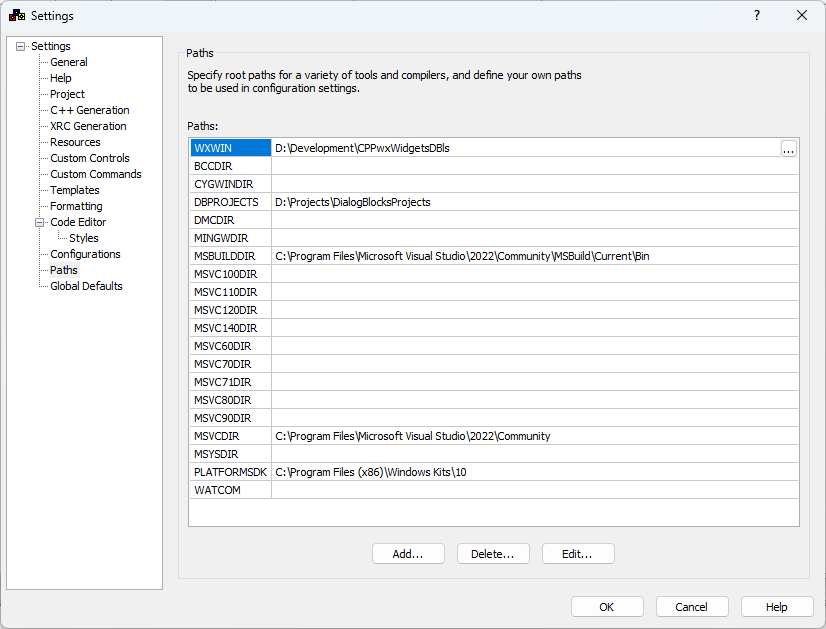
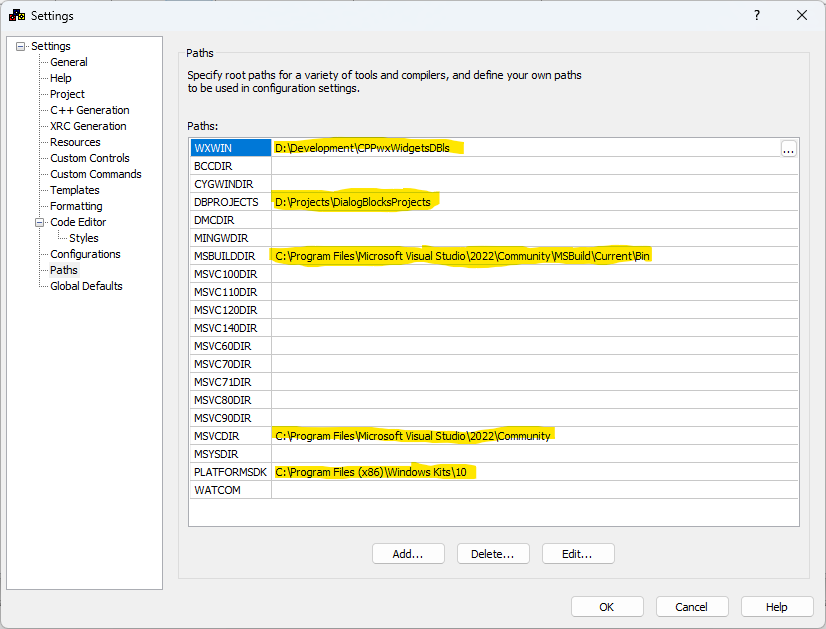
update

diff --git a/README.md b/README.md
@@ -7,7 +7,21 @@
 
 ![srcreenshot](screenshot3.png)
 
+```
+D:\Development\CPP\wxWidgetsDBls
+D:\Projects\DialogBlocksProjects
+C:\Program Files\Microsoft Visual Studio\2022\Community\MSBuild\Current\Bin
+C:\Program Files\Microsoft Visual Studio\2022\Community
+C:\Program Files (x86)\Windows Kits\10
+```
+
 ![srcreenshot](screenshot4.png)
+
+```
+17
+17.7.6 (Microsoft Visual Studio Community 2022 (64-разрядная версия) - Current Версия 17.7.6)
+10.0.22621.0 ("C:\Program Files (x86)\Windows Kits\10\bin\10.0.22621.0")
+```
 
 ![srcreenshot](screenshot5.png)
 
